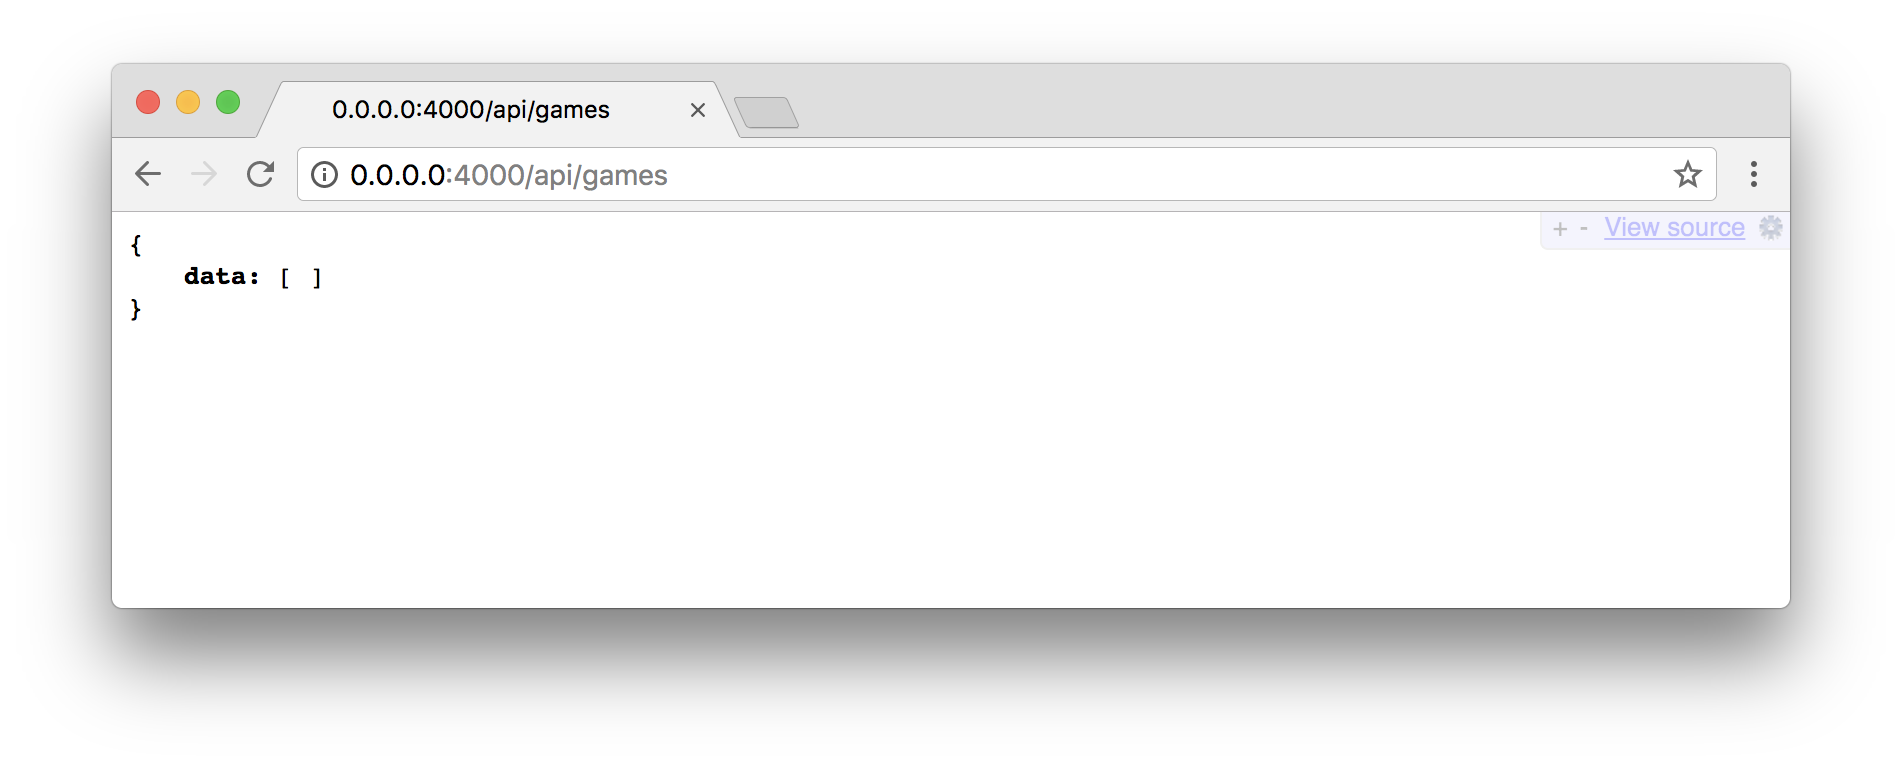
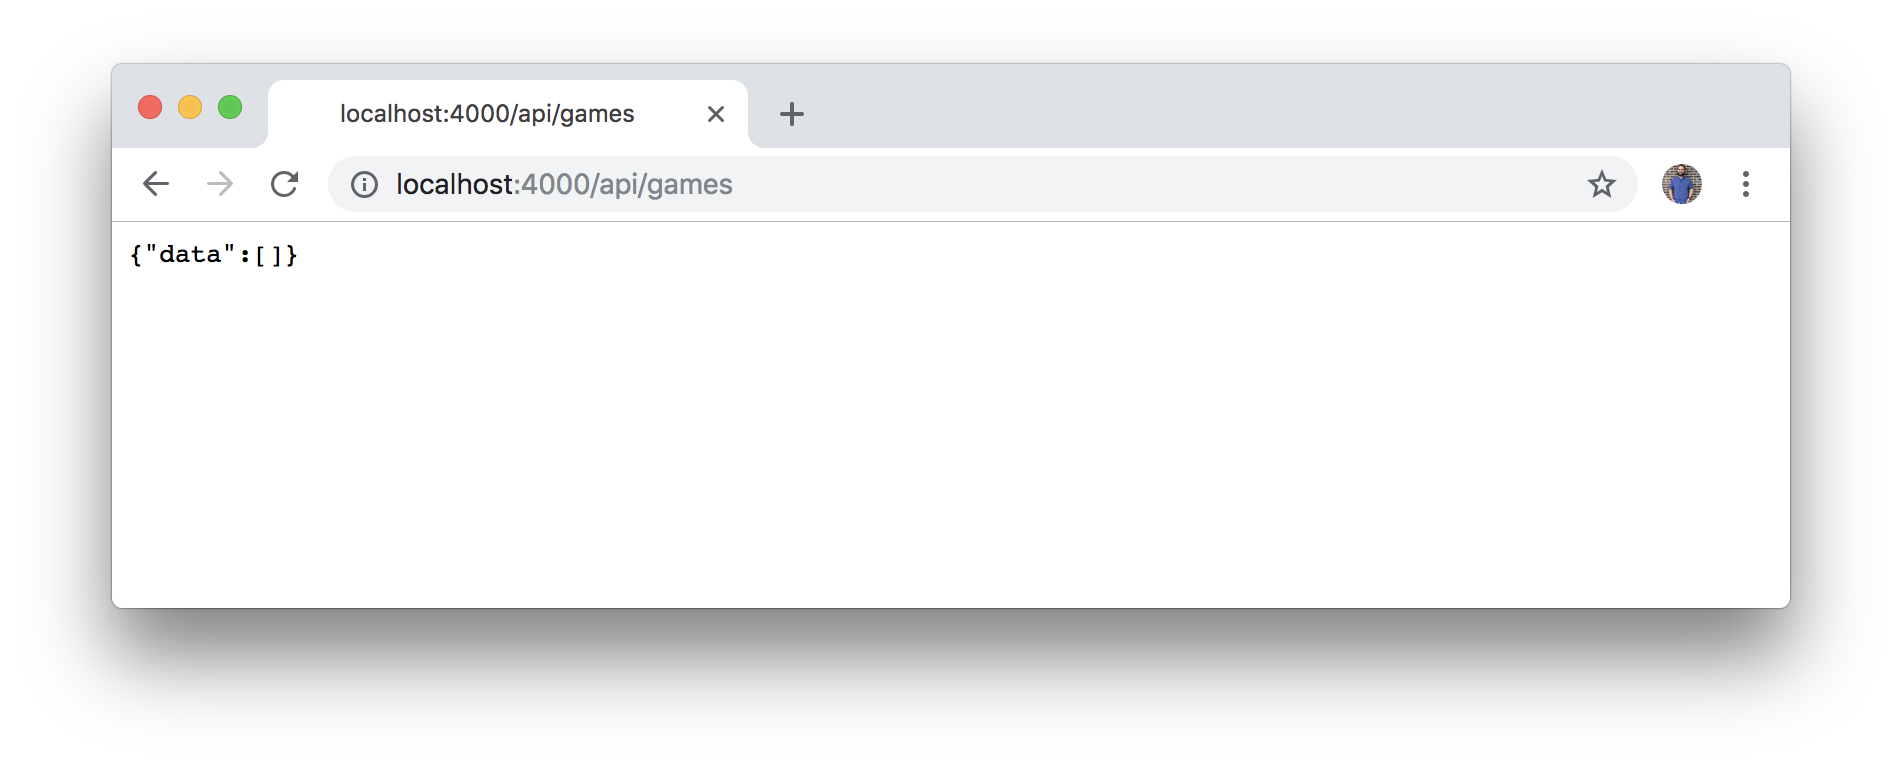
Replace 0.0.0.0 with localhost, update image

diff --git a/manuscript/phoenix_api.md b/manuscript/phoenix_api.md
@@ -312,9 +312,9 @@ application is working when the tests are passing.
 
 Let's start up our Phoenix server with `mix phx.server`.
 
-For our players resource, we were using URLs like `http://0.0.0.0:4000/players`
+For our players resource, we were using URLs like `http://localhost:4000/players`
 to access the templates. But now that we added a JSON resource, we'll need to
-use `/api` in our URLs. Try to access `http://0.0.0.0:4000/api/games` in the
+use `/api` in our URLs. Try to access `http://localhost:4000/api/games` in the
 browser. We shouldn't see an error, but we also don't have any game data to
 display yet (note that your browser might display JSON data differently):
 
@@ -355,7 +355,7 @@ iex> Platform.Products.create_game(%{title: "Platformer", description: "Platform
 ```
 
 Now that we have some data, we should be able to restart the server and reload
-the `http://0.0.0.0:4000/api/games` URL in our browser to see the results:
+the `http://localhost:4000/api/games` URL in our browser to see the results:
 
 ![Games API with Data](images/phoenix_api/games_api_with_data.png)
 
@@ -459,17 +459,17 @@ end
 ```
 
 Our `PlayerApiView` module is similar to what we have in the `GameView` module.
-When we load the `http://0.0.0.0:4000/api/players` URL, we're using
+When we load the `http://localhost:4000/api/players` URL, we're using
 `render_many/3` to list all the players. When we only want to show a single
-player, we can use a URL like `http://0.0.0.0:4000/api/players/1` that will use
+player, we can use a URL like `http://localhost:4000/api/players/1` that will use
 `render_one/3` to only display a single user's JSON data. At the bottom, we're
 creating a function that returns a map with all our player data. We can add or
 remove fields here whenever we want to adjust the fields that are accessible
 via the JSON API.
 
 This is all great news because it means we can still use the
-`http://0.0.0.0:4000/players` URL to access our list of players in the browser,
-and we can use `http://0.0.0.0:4000/api/players` to see our player data as
+`http://localhost:4000/players` URL to access our list of players in the browser,
+and we can use `http://localhost:4000/api/players` to see our player data as
 JSON.
 
 ![Player Data in Browser Scope](images/phoenix_api/player_data_browser_scope.png)
